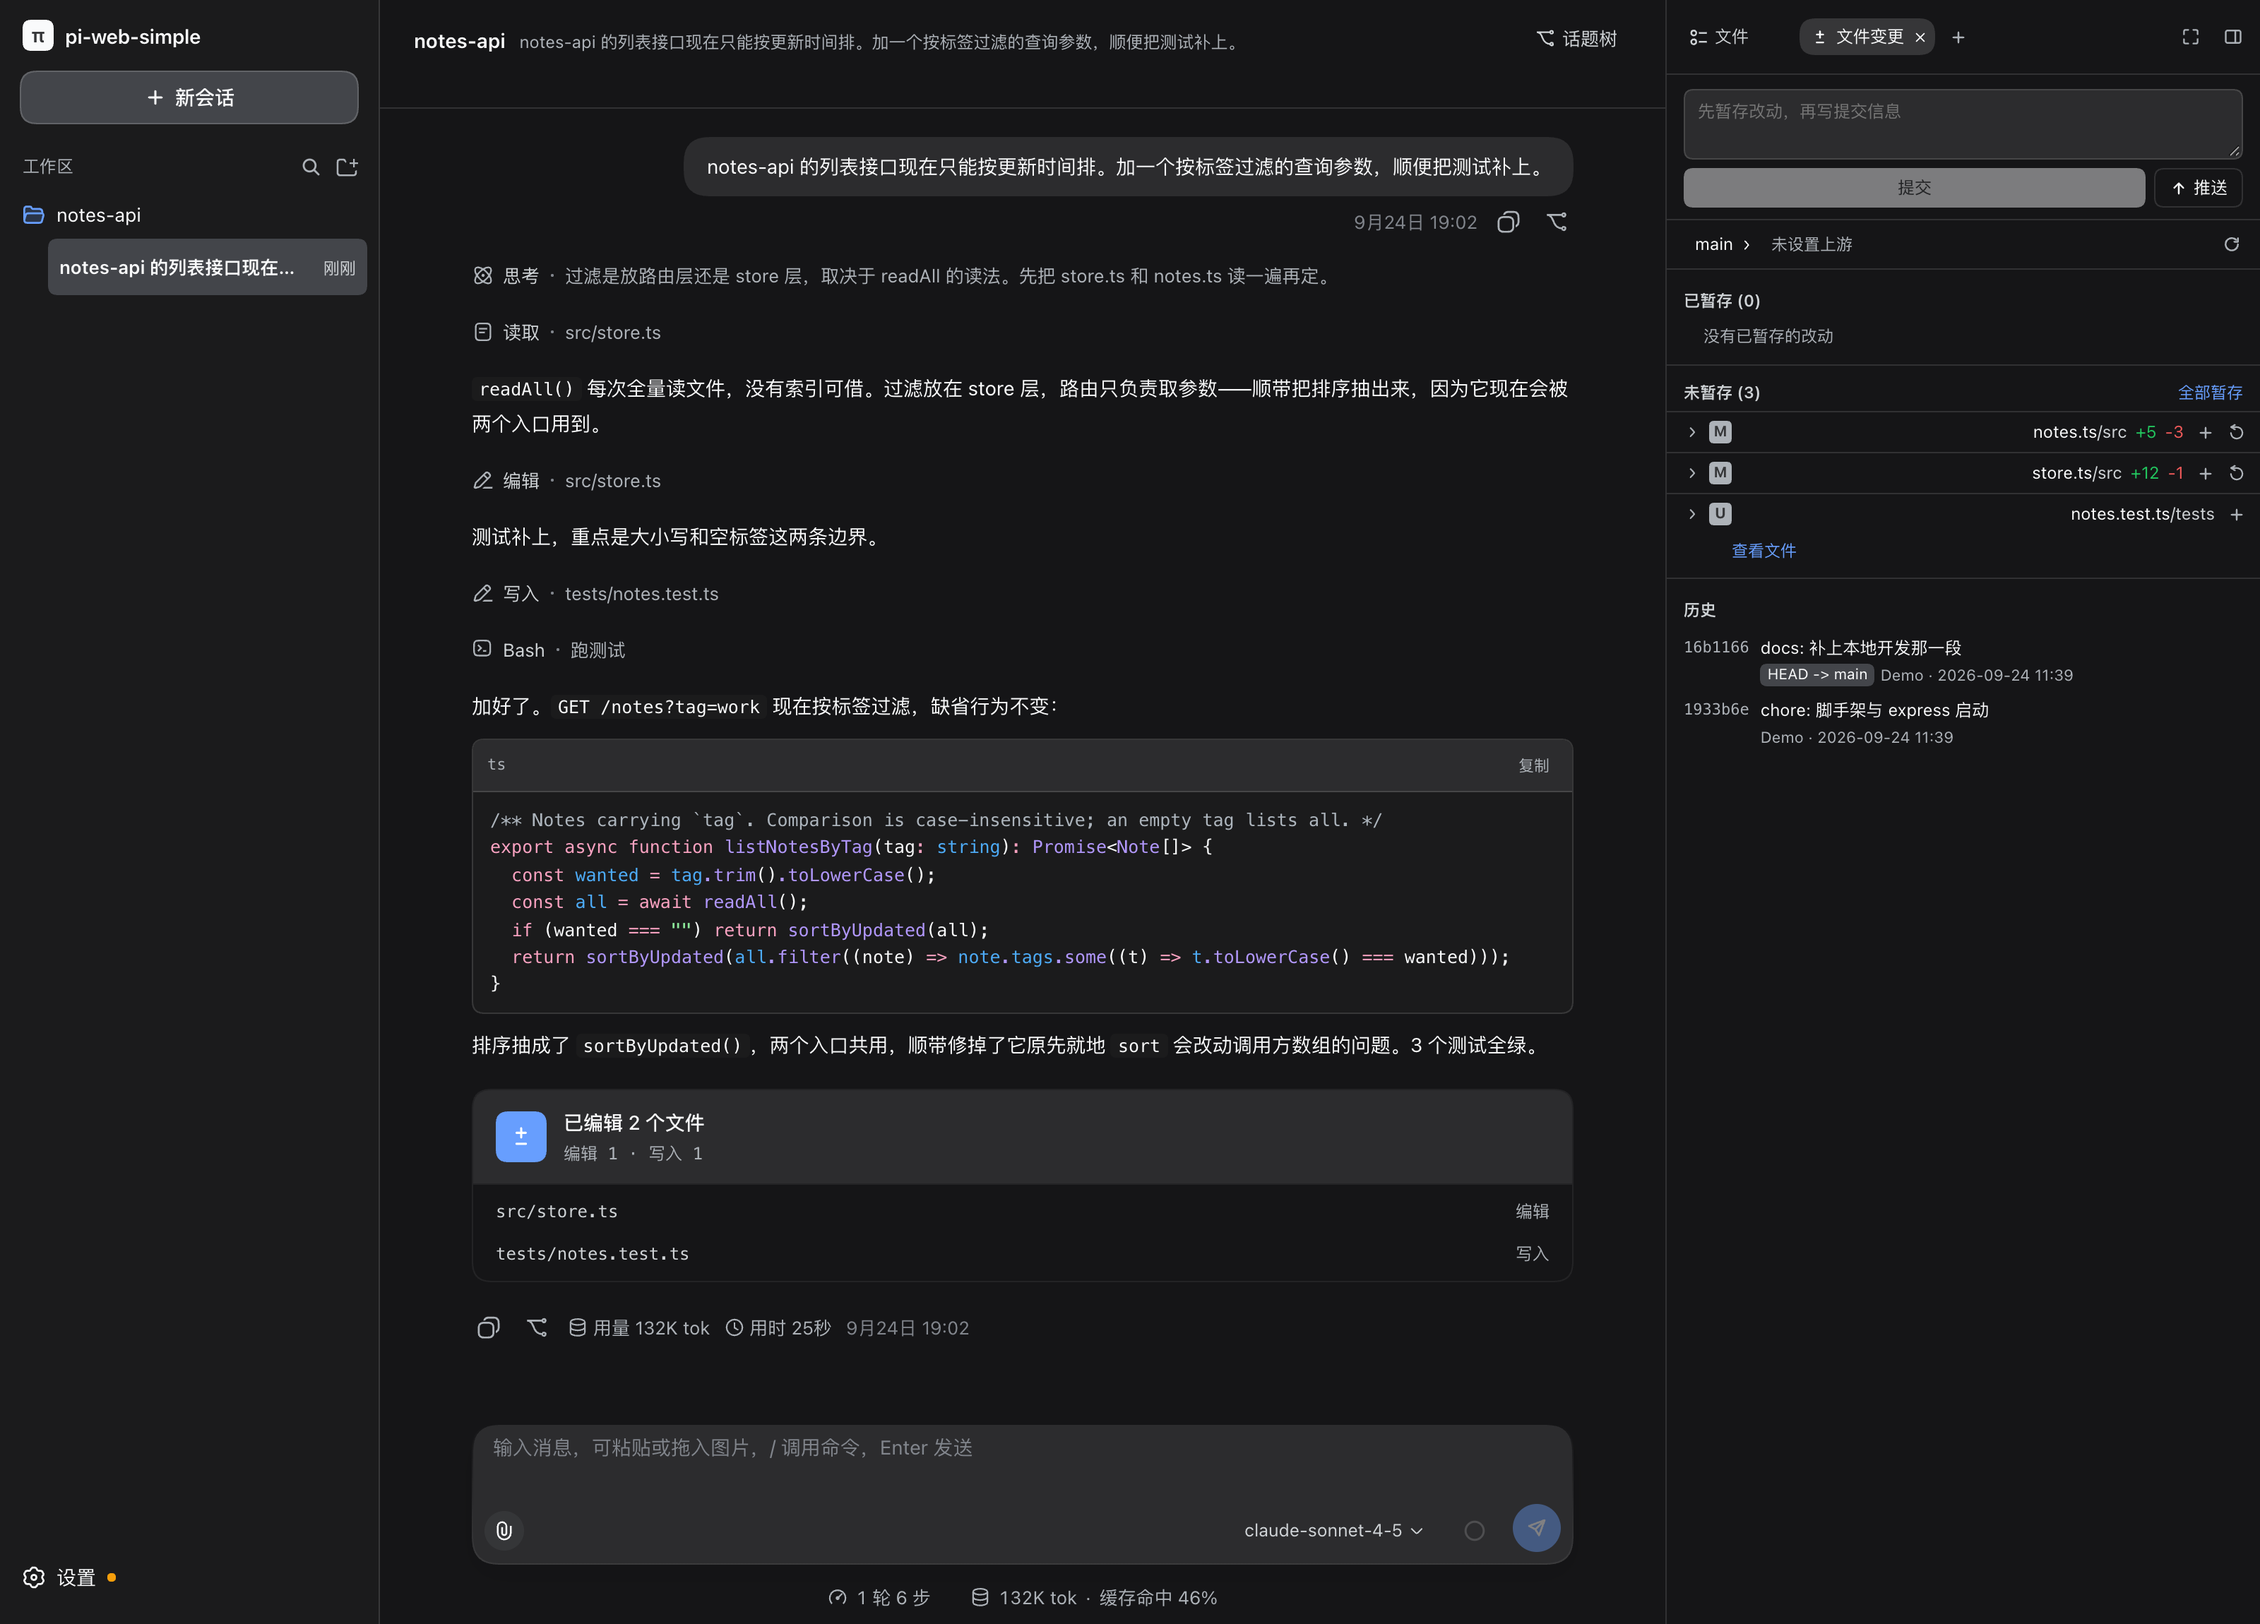
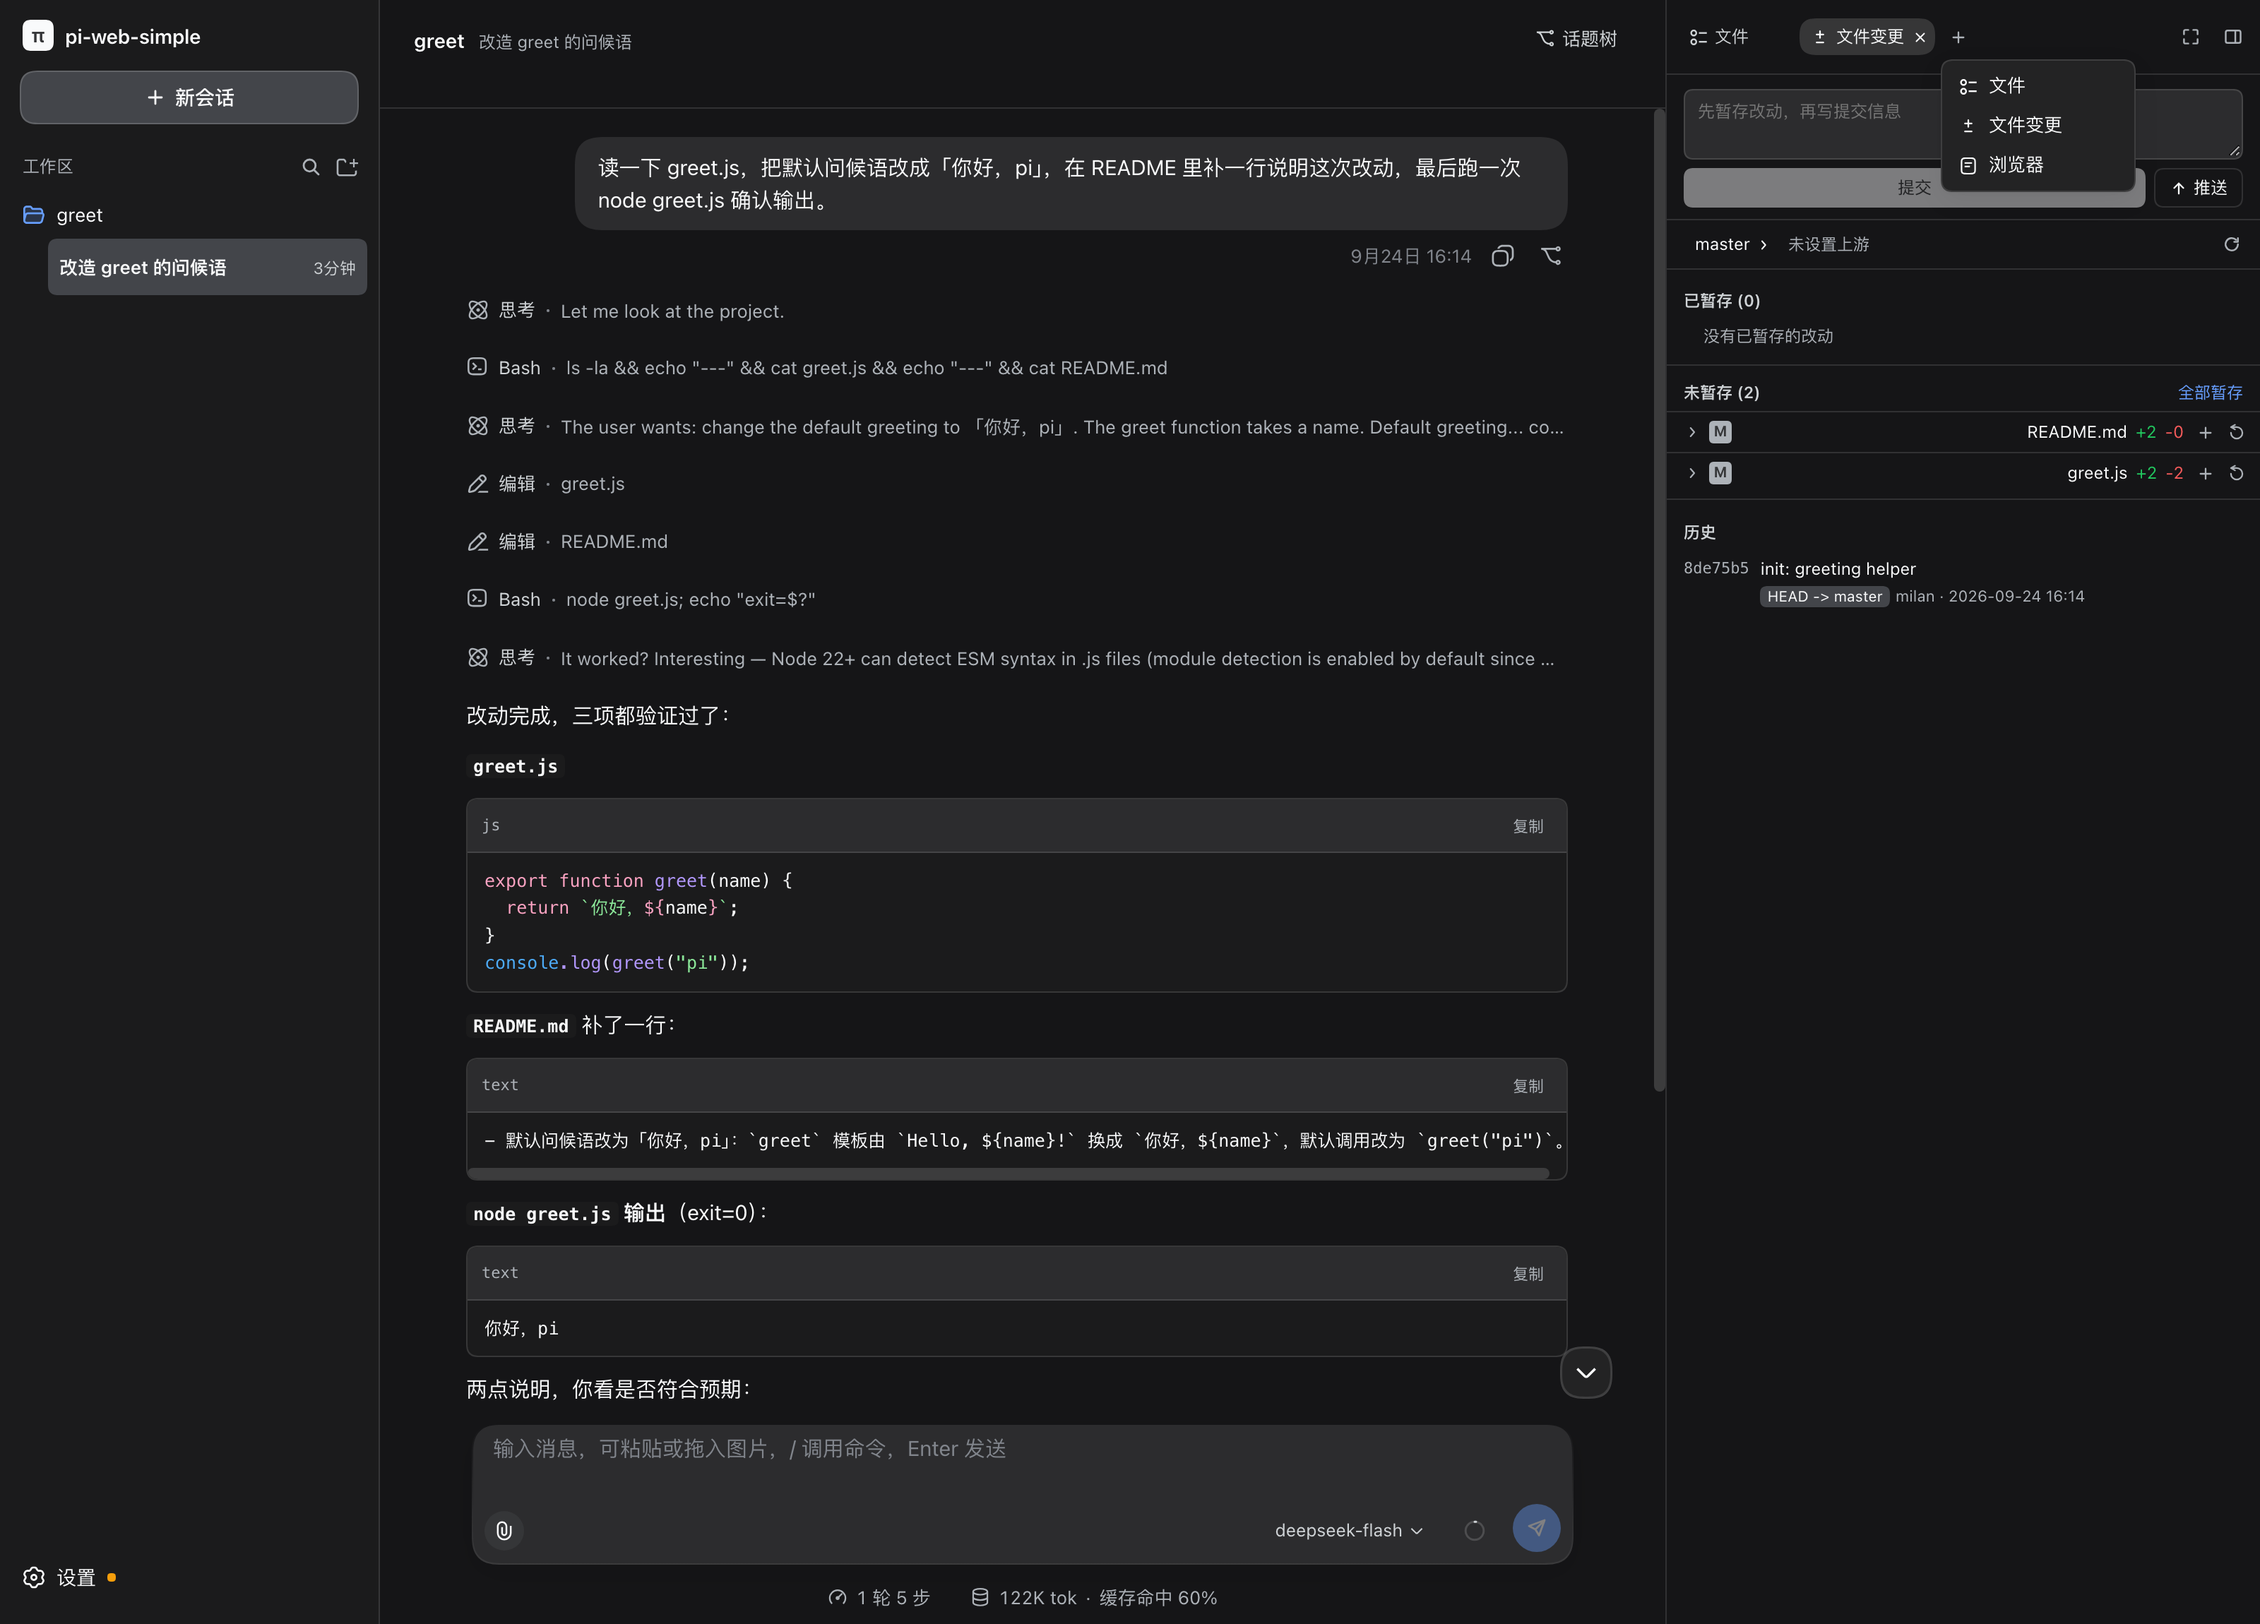
feat(i18n): 界面双语（跟随系统 / 简体中文 / English）+ 双语截图
- 设置页「外观」下方新增语言选择，默认跟随系统；选择写进服务端 store
- 430 条文案进字典，中文表为源表、英文表类型收口；时间与耗时按语言出格式
- 右栏标签页标题、app-state 通知、模块级选项表都改成随语言求值
- README 截图分语言：英文用英文界面截图、中文用中文界面截图，
  两套各自来自一份真实 pi 会话（greet 演示项目）

diff --git a/web/src/lib/i18n/messages.ts b/web/src/lib/i18n/messages.ts
@@ -763,7 +763,7 @@ export const en: Record<MessageKey, string> = {
   "slash.extension": "Extension",
 
   "stats.title": "Session stats",
-  "stats.counts": "{turns} turns · {steps} steps",
+  "stats.counts": "{turns} turn(s) · {steps} step(s)",
   "stats.modelTime": "Model time",
   "stats.toolTime": "Tool time",
   "stats.ttft": "Avg time to first token (TTFT)",

diff --git a/CHANGELOG.md b/CHANGELOG.md
@@ -3,6 +3,20 @@
 本文件记录 pi-web-simple 的显著变更。格式参考 [Keep a Changelog](https://keepachangelog.com/zh-CN/1.1.0/)，
 版本号遵循 [语义化版本](https://semver.org/lang/zh-CN/)。
 
+## [0.3.0] - 2026-09-24
+
+### 新增
+
+- **界面双语**：设置页「外观」下面多了一行语言（`跟随系统` / `简体中文` / `English`），默认跟随系统——中文机器照旧中文，其它语言落在英文；选择写进服务端 store，刷新和换浏览器都在。430 条文案进了 [字典](./web/src/lib/i18n/messages.ts)：中文表是源表，英文表按 `Record<MessageKey, string>` 收口，漏一条翻译编译不过；占位符改名有测试兜。
+- **格式也跟着语言走**：相对时间 `刚刚 / 12分钟` ↔ `just now / 12m`，耗时 `1分05秒` ↔ `1m 05s`，消息时间 `9月17日 21:00` ↔ `Sep 17, 21:00`。
+- **README 截图分语言**：英文 README 用英文界面截图，中文 README 用中文界面截图，两套图各自来自一份真实的 pi 会话（`greet` 演示项目：读 → 编辑 → 写 README → 跑 `node`）。
+
+### 说明
+
+- 右栏标签页的标题改成渲染时按 kind 查表：标签列表会跨语言切换、也会被持久化，创建时把标题存下来就会留下旧语言。
+- `app-state` 的通知在 action 内取当前语言的 translator——action 不是组件，拿不到 hook，但读 store 就能拿到用户此刻在看的语言。
+- 模块级常量表（工具变体、命令来源、MCP 作用域、插件分组、传输方式、状态词表、选项表）都改成按 `t` 求值的函数，避免把首次 import 时的语言冻住。
+
 ## [0.2.2] - 2026-09-24
 
 ### 修复

diff --git a/README.md b/README.md
@@ -14,7 +14,7 @@ Requires Node.js `>= 22.19.0`. Binds to `127.0.0.1` only.
 
 | Dark theme | Light theme |
 | :---: | :---: |
-| ![Main view in the dark theme](https://cdn.jsdelivr.net/gh/woxihejinghao/pi-web@main/docs/images/overview-dark.png) | ![Main view in the light theme](https://cdn.jsdelivr.net/gh/woxihejinghao/pi-web@main/docs/images/overview-light.png) |
+| ![Main view in the dark theme](https://cdn.jsdelivr.net/gh/woxihejinghao/pi-web@main/docs/images/overview-dark.en.png) | ![Main view in the light theme](https://cdn.jsdelivr.net/gh/woxihejinghao/pi-web@main/docs/images/overview-light.en.png) |
 
 *Left: dark theme, right: light theme (follows the system by default, and can be pinned in settings). Both show the same session: workspace and sessions in the left column, the conversation with its thinking and tool calls (read / edit / write / Bash) in the middle, and the file changes on the right, where they can be staged, committed and pushed directly.*
 
